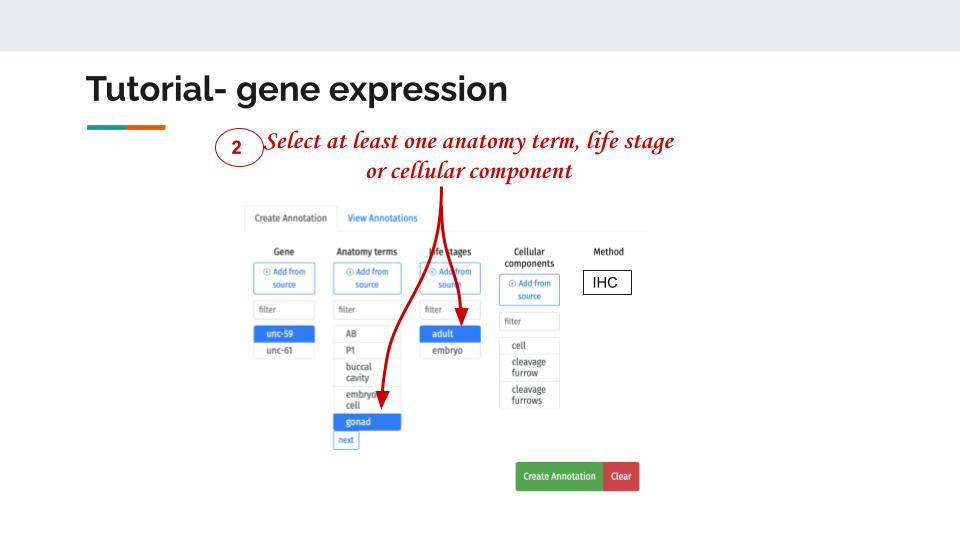
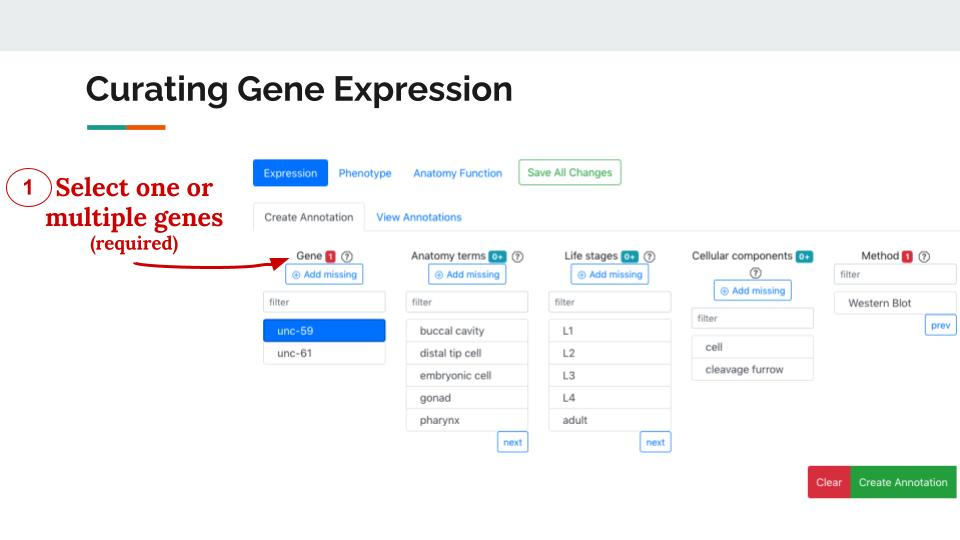
fix(tutorial): new images

diff --git a/src/components/Modals.js b/src/components/Modals.js
@@ -8,6 +8,8 @@ import slide1 from "../assets/images/1.jpg";
 import slide2 from "../assets/images/2.jpg";
 import slide3 from "../assets/images/3.jpg";
 import slide4 from "../assets/images/4.jpg";
+import slide5 from "../assets/images/5.jpg";
+import slide6 from "../assets/images/6.jpg";
 
 export class AnnotationCreatedModal extends React.Component{
     render() {
@@ -70,7 +72,7 @@ export class TutorialModal extends React.Component{
         this.state = {
             showTutorial: true,
             index: 0,
-            slides: [slide1, slide2, slide3, slide4]
+            slides: [slide1, slide2, slide3, slide4, slide5, slide6]
         }
     }
     render() {
